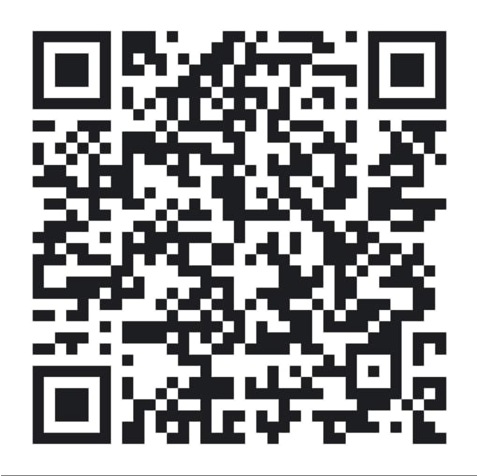
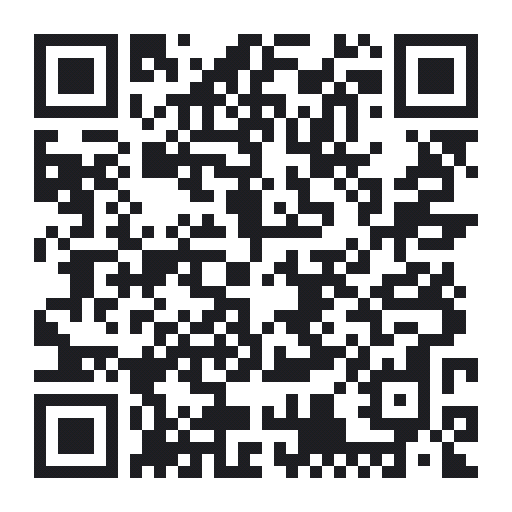
Fix clone qrcode and arduino libs list

Changed region(s): [[0.0587, 0.0588, 0.9392, 0.9412], [0.9099, 0.6176, 0.9392, 0.6471]]

diff --git a/docs/Sw_getting_started.md b/docs/Sw_getting_started.md
@@ -29,12 +29,15 @@ Open you favorite IDE:
 ### Libraries to include in Arduino IDE
 
 
-* [Blynk Library](https://github.com/blynkkk/blynk-library)
+
 * [ArduinoOTA](https://github.com/esp8266/Arduino/tree/master/libraries/ArduinoOTA)
-* [SimpleTimer](https://github.com/schinken/SimpleTimer)
-* [ModbusMaster_obj](https://github.com/Bettapro/ModbusMaster) 
+* [ModbusMaster](https://github.com/Bettapro/ModbusMaster) 
 * [WiFiManager](https://github.com/tzapu/WiFiManager) 
 * [ArduinoJson](https://github.com/bblanchon/ArduinoJson) 
+* [PubSubClient](https://github.com/knolleary/pubsubclient) - MQTT ONLY
+* [Blynk Library](https://github.com/blynkkk/blynk-library) - BLYNK ONLY
+* [SimpleTimer](https://github.com/Bettapro/SimpleTimer) - MQTT ONLY
+
 
 ### Edit `config.h` library
 Open `SolarTracerBlynk\config.h`
@@ -56,19 +59,21 @@ Upload the sketch to your ESP8266 / ESP32, if you are using platformio you shoul
 
  Get the Mobile App ([iOS](https://itunes.apple.com/us/app/blynk-iot-for-arduino-rpi/id808760481?mt=8) & [Android](https://play.google.com/store/apps/details?id=cc.blynk&hl=en))
 
-Open the Blynk mobile app and create a new project by scanning the following QR code
+Open the Blynk mobile app and create a new project by scanning the following QR code.
+
+Click PLAY on you mobile app, you should start receiving updates from your solar tracer!.
+
 
 ### Legacy app (v3) - SUGGESTED
-Current version of the app, complete overview of the solar charge controller.
+Current version of the app, complete overview of the solar charge controller. ENERGY REQUIRED: 14300
 
-![Project QR Code](../images/blynk-app-qr-code_v3.png)
+![Project QR Code](../images/blynk-app-qr-code_v3_blynkcloud.png)
 
 ### Legacy app (v2)
-Original version of the mobile app, shows a small set of data.
+Original version of the mobile app, shows a small set of data. ENERGY REQUIRED: 4400
 
 ![Project QR Code](../images/blynk-app-qr-code.png)
 
-Click PLAY on you mobile app, you should start receiving updates from your solar tracer!.
 
 ## 3. Wifi Configuration (SETUP MODE)
 
@@ -83,7 +88,7 @@ Default values:
  - WIFI SSID: SolarTracerAP
  - WIFI PASSWORD: admin1234
 
-Connect to this Wifi network, then oper a browser and go to http://192.168.4.1 .
+Connect to this Wifi network, then open a web browser and go to http://192.168.4.1 .
 
  ![wifimanager_home](../images/wifi_manager_home.png)
 
